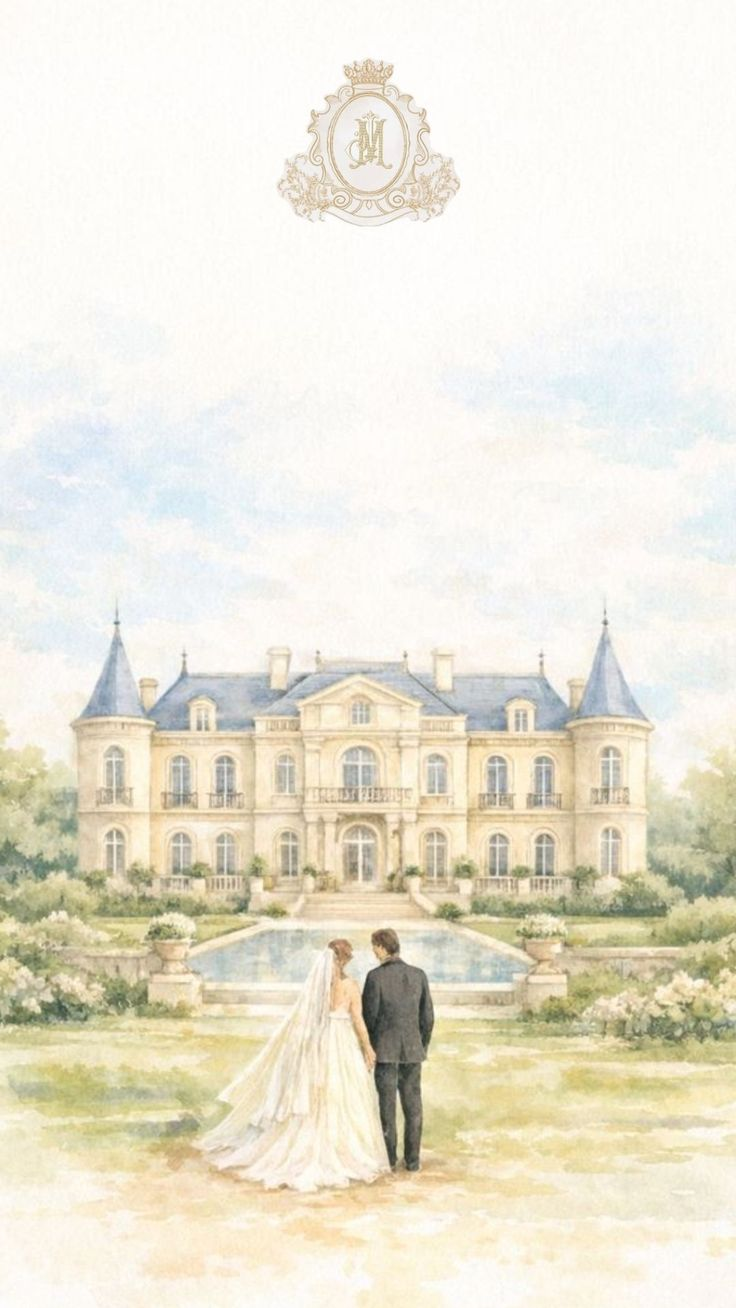
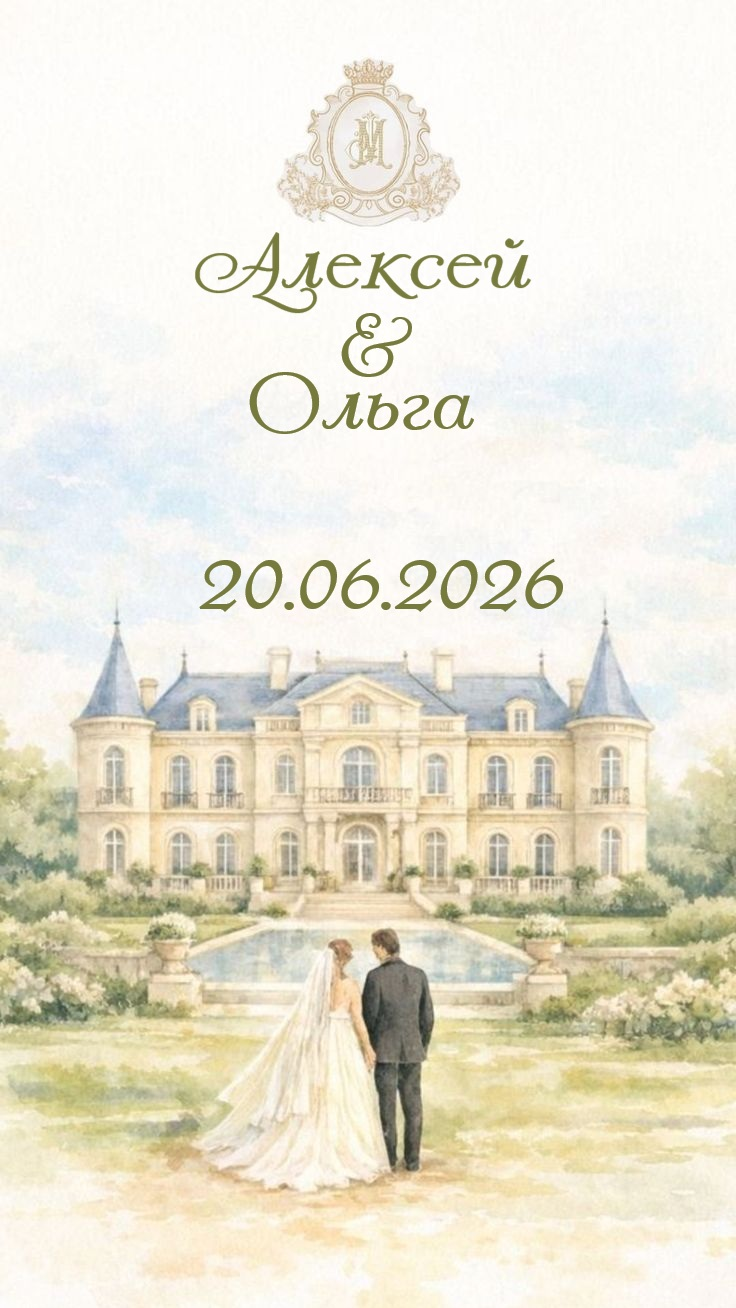
Add files via upload

Changed region(s): [[0.25, 0.1835, 0.7188, 0.3364], [0.2812, 0.4281, 0.7812, 0.4893]]

diff --git a/index.html b/index.html
@@ -14,13 +14,11 @@
     <div class="container text-center">
       <div class="row justify-content-center">
         <div class="col-sm-12">
-          <audio id="player" src="assets/music.mp3" loop="loop"></audio>
+          <!-- <audio id="player" src="assets/music.mp3" loop="loop"></audio>
           <div class="music-btn-block">
             <span id="play-music" class="music-btn music-btn-play" onclick="playMusic()"></span>
             <span id="pause-music" class="music-btn music-btn-pause" onclick="pauseMusic()"></span>
-          </div>
-          <p class="title title-name">Алексей</br>&</br>Ольга</p>
-          <p class="title title-date">20.06.2026</p>
+          </div> -->
         </div>
       </div>
     </div>
@@ -119,7 +117,7 @@
       <div class="row justify-content-center">
         <div class="col-sm-12">
           <p class="title">Место проведения</p>
-          <span class="text">Загородный клуб Небо Свердловская область, городской круг Верхняя Пышма</span>
+          <span class="text">Загородный клуб "Небо" Свердловская обл., городской округ<br>Верхняя Пышма</span>
           <div class="map-wrapper">
             <img class="map" src="assets/map.png">
           </div>
@@ -158,7 +156,7 @@
       <div class="row justify-content-center">
         <div class="col-sm-12">
           <p class="title">Дресс-код</p>
-          <span class="text">Нам будет особенно приятно, если вы поддержите стиль нашей свадьбы в своих образах</span>
+          <span class="text">Нам будет особенно приятно, если Вы поддержите стиль нашей свадьбы в своих образах</span>
           <div class="dresscode-block">
             <div class="dresscode-img olive-img-0"></div>
             <div class="dresscode-img olive-img-1"></div>
@@ -203,7 +201,7 @@
       <div class="row justify-content-center">
         <div class="col-sm-12">
           <p class="title">Детали</p>
-          <span class="text">Сразу после торжества мы улетаем в свадебное путешествие, поэтому, если Вы планировали порадовать нас цветами, подарите нам, пожалуйста, бутылочку игристого вина. А на открытке напишите дату или событие, когда, по Вашему мнению, нам стоит её распить. Это будет своего рода капсула времени, и приятный повод вспомнить о Вас.</span>
+          <span class="text">Сразу после торжества мы улетаем в свадебное путешествие, поэтому, если Вы планировали порадовать нас цветами, подарите нам, пожалуйста, бутылочку игристого вина.<br>А на открытке напишите дату или событие, когда, по Вашему мнению, нам стоит её распить.<br>Это будет своего рода капсула времени, и приятный повод вспомнить о Вас.</span>
         </div>
       </div>
     </div>
@@ -291,6 +289,11 @@
     font-weight: 600;
     position: relative;
     z-index: 1;
+  }
+  .container .text,
+  .container .form-check-label,
+  .container .cell {
+    text-shadow: 1px 1px 0px rgb(255 255 255);
   }
 
 
@@ -410,12 +413,13 @@
 
 
   #block-3 {
-    padding: 7rem 3rem;
+    padding: 6rem 3rem;
     background-image: url(assets/background_1.jpg);
   }
   #block-3 .title {
     font-size: 60px;
     line-height: 40px;
+    margin-bottom: 30px;
   }
   #block-3 .text {
     font-size: 25px;
@@ -428,7 +432,8 @@
   .map {
     width: calc(100vw - 9rem);
     max-width: calc(630px - 9rem);
-    mask-image: radial-gradient(black 50%, transparent 74%);
+    border-radius: 20px;
+    border: 2px solid;
   }
   .btn {
     color: #ffffff !important;
@@ -447,17 +452,23 @@
     font-size: 60px;
     line-height: 40px;
   }
+  #block-4 .col-sm-12 {
+    width: 80%;
+  }
   .timing-block {
     display: flex;
-    justify-content: center;
+    justify-content: flex-end;
     align-items: center;
+  }
+  .timing-block:nth-child(even) {
+    justify-content: flex-start;
   }
   .timing-block-img {
     background-repeat: no-repeat;
     background-position: center;
     background-size: 100% 100%;
-    width: 80px;
-    height: 80px;
+    width: 60px;
+    height: 60px;
   }
   #block-4 .img-0 {
     background-image: url(assets/timing_img_0.png);
@@ -482,7 +493,7 @@
 
 
   #block-5 {
-    padding: 7rem 3rem;
+    padding: 6rem 3rem;
     background-image: url(assets/background_1.jpg);
   }
   #block-5 .title {
@@ -556,7 +567,7 @@
   }
   .dresscode-color {
     width: 100%;
-    height: 90px;
+    height: 80px;
     border-radius: 15px;
   }
   .dresscode-color.olive-color {
@@ -587,7 +598,7 @@
 
 
   #block-6 {
-    padding: 7rem 3rem;
+    padding: 6rem 3rem;
     background-image: url(assets/background_1.jpg);
   }
   #block-6 .title {
@@ -600,7 +611,7 @@
   }
 
   #block-7 {
-    padding: 7rem 3rem;
+    padding: 6rem 3rem;
     background-image: url(assets/background_1.jpg);
   }
   #block-7 .title {
